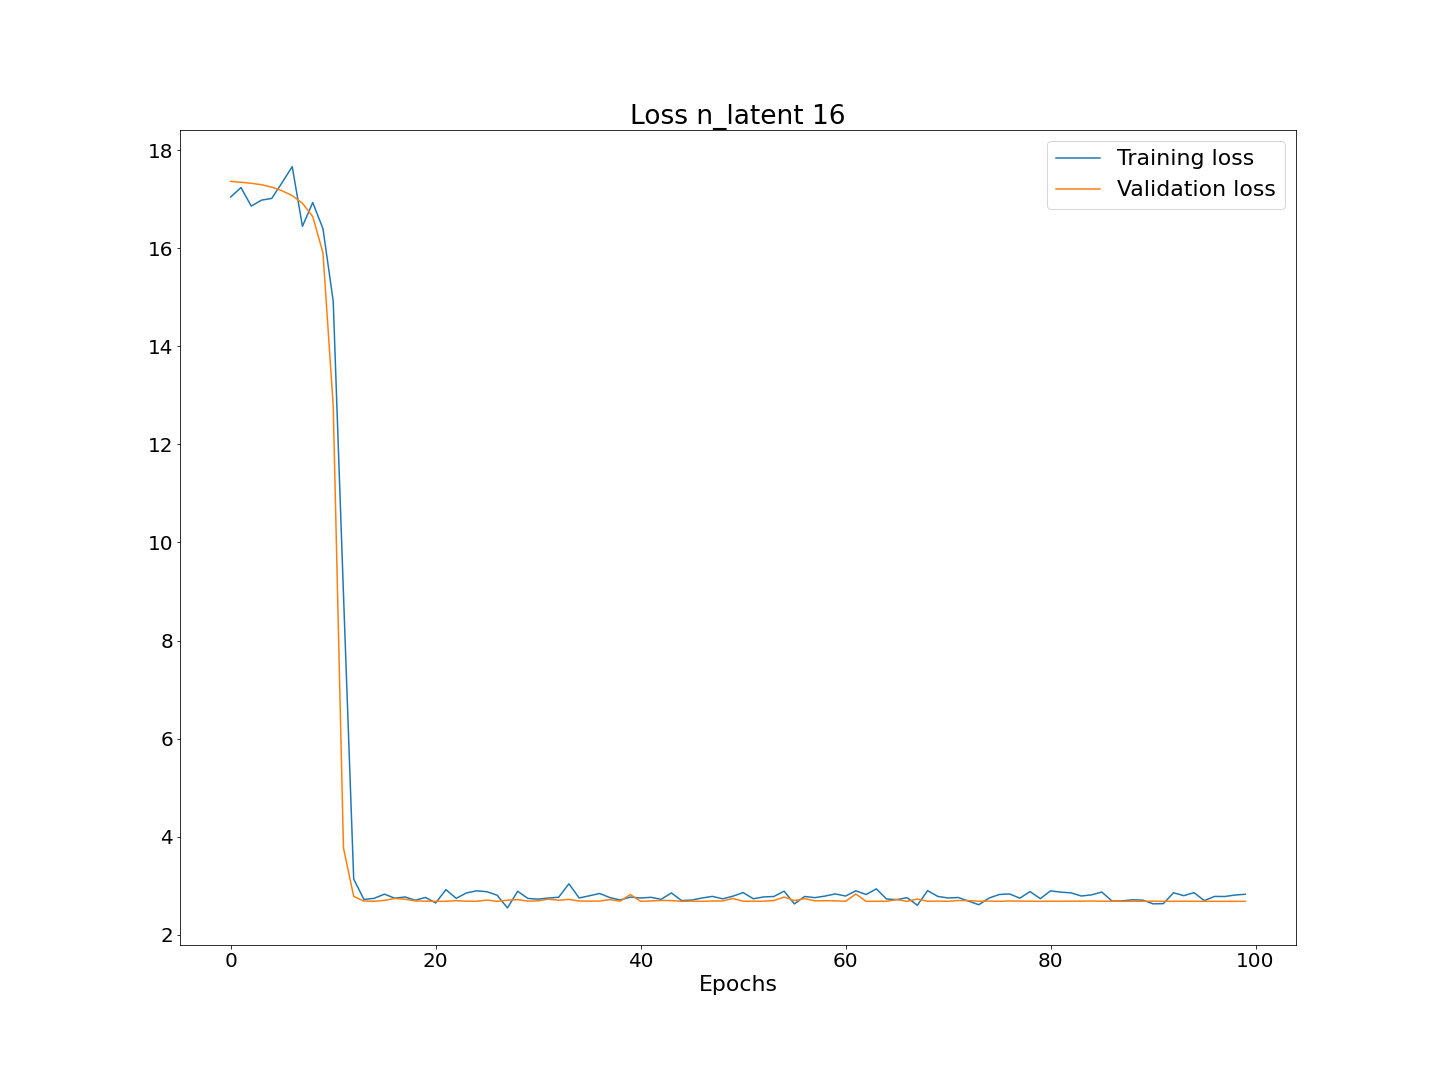
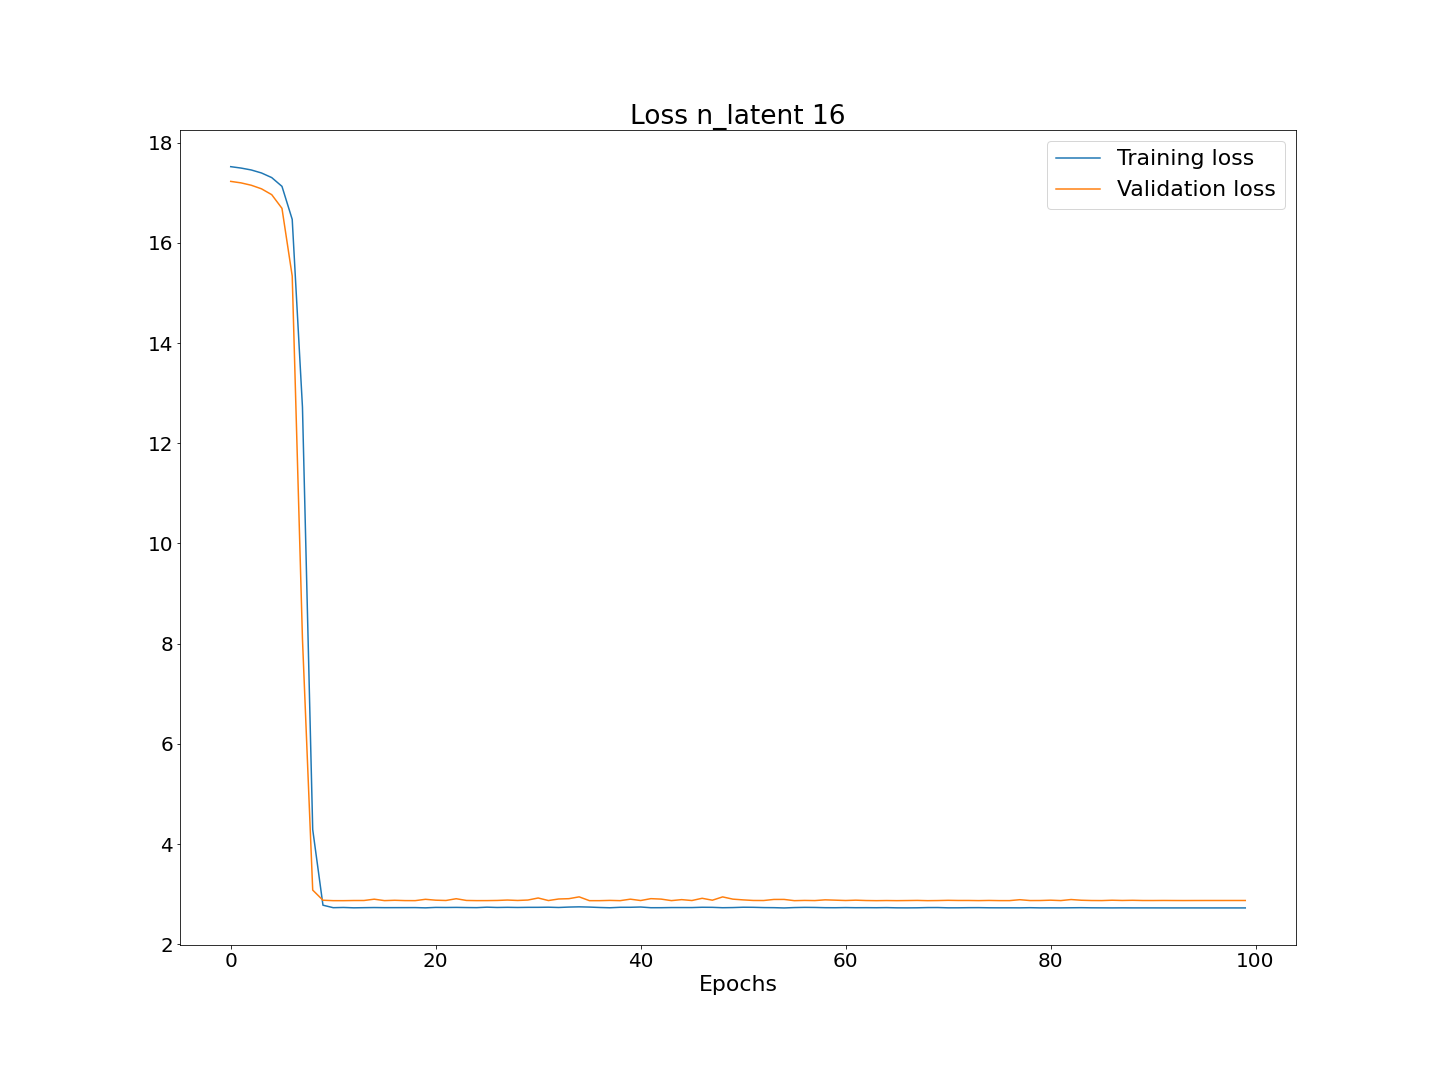
git push

diff --git a/spender/saved_model/inspect.py b/spender/saved_model/inspect.py
@@ -63,18 +63,31 @@ for j in range(len(percent)):
         percent_arr[batch_size*j+i,:]=x
         
 
-
-
+"""
 
 for j in np.arange(1,10): #percentiles go from 10% to 90%
     for i in range(test_set): 
         plt.plot(percent_arr[i,j-1],percent_pred_arr[i,j-1],'.')#,'k.')
     x=np.arange(np.min(percent_arr[:,j-1]),np.max(percent_arr[:,j-1]))
-    plt.plot(x,x)
+    #plt.plot(x,x)
     #plt.title('Percentiles ')
     plt.xlabel('Time percentile '+str(j*10)+' real (Gyrs)')
     plt.ylabel('Time percentile '+str(j*10)+' predicted (Gyrs)')
     plt.show()
+    
+"""
+    
+#histogram for percentiles and means
+for j in np.arange(1,10): #percentiles go from 10% to 90%
+        plt.hist(percent_arr[:,j-1],color='r',label='Real')
+        plt.hist(percent_pred_arr[:,j-1],color='b',label='Predicted')#,'k.')
+        plt.ylabel('N')
+        plt.xlabel('Time percentile '+str(j*10)+' (Gyrs)')
+        plt.legend()
+        plt.show()
+        
+        print('Mean real percentile '+str(j*10)+'% : '+str(np.mean(percent_arr[:,j-1])))
+        print('Mean predicted percentile '+str(j*10)+'% : '+str(np.mean(percent_pred_arr[:,j-1])))
     
 
 """
@@ -86,5 +99,6 @@ for j in range(n_latent):
     plt.xlabel('Value')
     plt.ylabel('N')
     plt.show()
+
 
 """

diff --git a/spender/generate_latent_2.py b/spender/generate_latent_2.py
@@ -216,7 +216,8 @@ if training_mode:
 
     # define and train the model
     print('Model defined')
-    model = encoder_percentiles(n_latent=n_latent,n_out=9,n_hidden=(16,32,64),act=None)
+    #(16,32,64)
+    model = encoder_percentiles(n_latent=n_latent,n_out=9,n_hidden=(16,16,16),act=None)
 
     train(model, trainloader, validloader, n_latent,n_epoch=max_epochs, n_batch=batch_size, outfile=None, losses=None, lr=lr, verbose=True)
 
